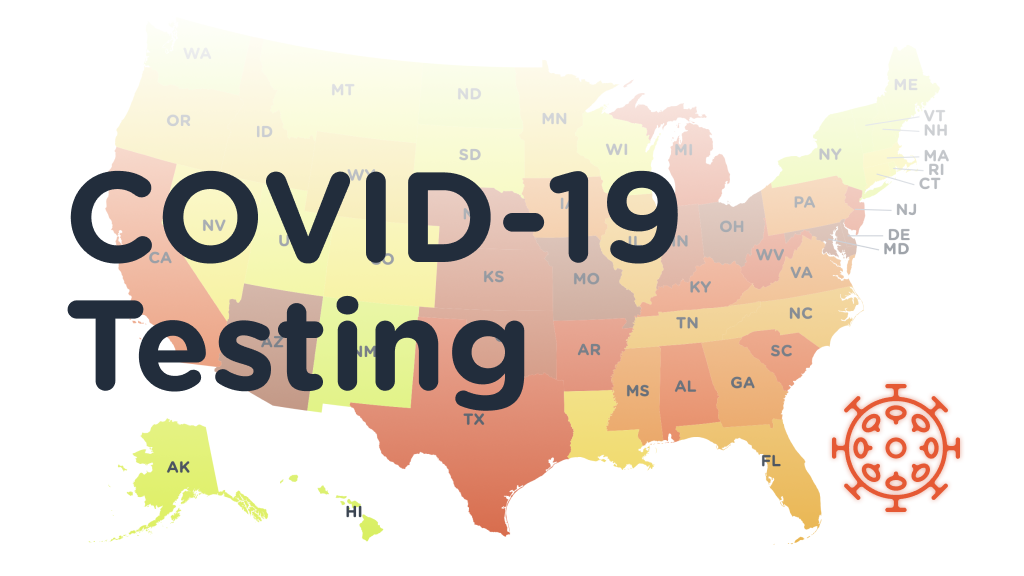
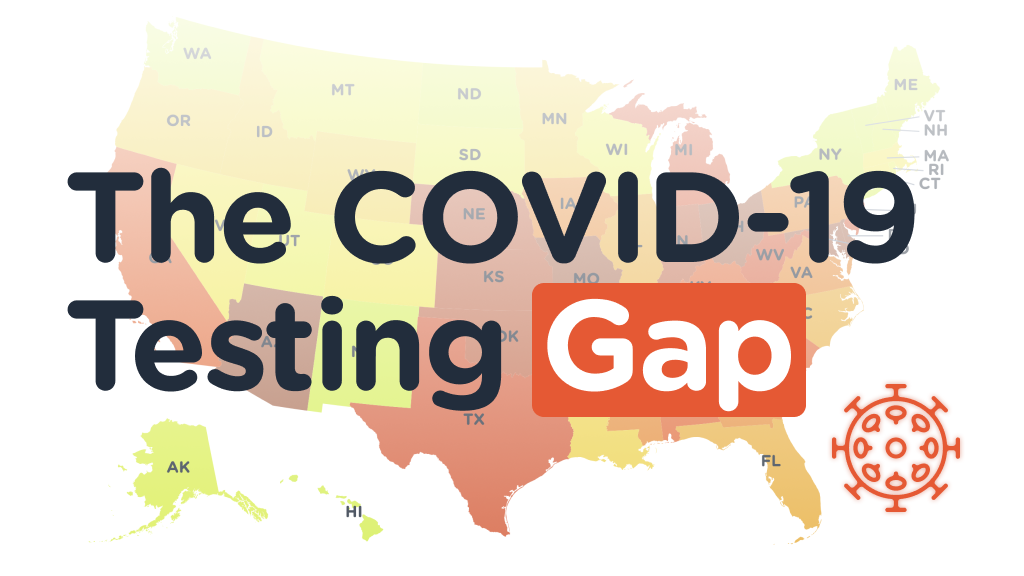
Switch to Testing Gap branding

Changed region(s): [[0.0625, 0.2812, 0.9062, 0.75]]

diff --git a/pages/index.js b/pages/index.js
@@ -10,7 +10,7 @@ import Readings from '../components/readings'
 import {
   Badge,
   Box,
-  Button,
+  Card,
   Container,
   Flex,
   Grid,
@@ -61,14 +61,11 @@ const Legend = ({ colorRange, total }) => (
   </Flex>
 )
 
+const testPop = today => round((today.total / 327200000) * 100, 3)
 const Stats = ({ today }) => (
   <Grid columns={[2, 3]} sx={{ mb: [3, null, 4] }}>
     <Stat value={commaNumber(today.total)} label="Total U.S. tests" />
-    <Stat
-      value={round((today.total / 327200000) * 100, 3)}
-      unit="%"
-      label="Tests / U.S. population"
-    />
+    <Stat value={testPop(today)} unit="%" label="Tests / U.S. population" />
     <Stat
       value={round((today.positive / today.total) * 100, 1)}
       unit="%"
@@ -89,19 +86,72 @@ export default ({ data = [], states = [], today = {} }) => {
   return (
     <>
       <Meta />
-      <Header title="U.S. COVID-19 Testing">
+      <Header
+        title={
+          <>
+            The U.S. COVID-19{' '}
+            <Badge
+              as="strong"
+              sx={{
+                fontSize: 'inherit',
+                borderRadius: 'default',
+                bg: 'primary',
+                px: 2,
+                py: 1
+              }}
+            >
+              Testing Gap
+            </Badge>
+          </>
+        }
+      >
         <Text sx={{ color: 'text', fontSize: [1, 2], my: [2, 3] }}>
-          There’s a{' '}
-          <Badge
-            as="strong"
-            sx={{ fontSize: 'inherit', fontFamily: 'heading', bg: 'primary' }}
-          >
-            critical shortage of testing
-          </Badge>{' '}
-          across the country, so we can’t know how many cases states have. This
-          site shows the number of tests each state has performed relative to
-          their population.
+          Critical lack of access to COVID-19 testing across the country
+          prevents us from knowing exactly how many people are infected. This
+          isn’t news.
         </Text>
+        <Text sx={{ color: 'text', fontSize: [1, 2], my: [2, 3] }}>
+          But depending on your state, you have very different access to
+          testing. This site shows each state’s testing relative to their
+          population.
+        </Text>
+        <details>
+          <Text as="summary" sx={{ fontFamily: 'heading' }}>
+            Top takeaways
+          </Text>
+          <Card
+            as="ol"
+            variant="sunken"
+            sx={{
+              color: 'text',
+              fontSize: [1],
+              my: [2, 3],
+              py: [2, 3],
+              pl: [4, 4],
+              mx: [-2, -3, -4],
+              li: { maxWidth: 'copy' },
+              'li + li': { mt: [1, 2] }
+            }}
+          >
+            <Text as="li">
+              Poorer states lack testing: nearly all Southern & Midwestern
+              states have done &lt;75&nbsp;tests per 100K people, while
+              Northeastern states range 120-400 tests per 100K.
+            </Text>
+            <Text as="li">
+              Washington (443/100K) & New York (398/100K) have the most testing
+              per capita, Ohio has the least (4/100K).
+            </Text>
+            <Text as="li">
+              85% of tests in New Jersey return positive, vs 0.03% in West
+              Virginia. This may be due to different requirements for testing.
+            </Text>
+            <Text as="li">
+              No states have nearly enough testing yet—&lt;{testPop(today)}% of
+              Americans have been tested once.
+            </Text>
+          </Card>
+        </details>
         <Text sx={{ color: 'secondary', mt: 3 }}>
           All data from{' '}
           <Link href="https://covidtracking.com/">

diff --git a/components/meta.js b/components/meta.js
@@ -1,8 +1,8 @@
 import Head from 'next/head'
 
 export default ({
-  title = 'COVID-19 Testing in the U.S.',
-  description = 'Understand the critical shortage of COVID-19 testing across the country with an interactive, state-by-state data visualization. Updated daily.',
+  title = 'The COVID-19 Testing Gap in the U.S.',
+  description = 'Understand the critical shortage of COVID-19 testing across the country & the disparity of access between states with an interactive, state-by-state data visualization. Updated daily.',
   image = 'https://testing.predictcovid.com/card.png',
   url = 'https://testing.predictcovid.com/'
 }) => (

diff --git a/components/nav.js b/components/nav.js
@@ -113,12 +113,9 @@ export default ({ material = false }) => {
           <BackButton text="All States" />
         ) : (
           <Link href="/" passHref>
-            <Text
-              as="a"
-              sx={{ color: 'red', flex: '1 1 auto', fontFamily: 'heading' }}
-            >
-              COVID-19 Testing
-            </Text>
+            <NavLink as="a" sx={{ ...linkEffect, px: 2, py: 1, ml: -2 }}>
+              Testing Gap
+            </NavLink>
           </Link>
         )}
         <NavLink

diff --git a/lib/theme.js b/lib/theme.js
@@ -29,7 +29,8 @@ theme.buttons.primary = {
 }
 theme.text.headline.color = 'primary'
 theme.text.headline.mt = 4
-theme.text.title.fontSize = [4, 5]
+theme.letterSpacings.headline = '-.02em'
+theme.text.title.letterSpacing = 'headline'
 theme.text.subtitle.fontSize = 2
 theme.text.subtitle = {
   ...theme.text.subtitle,

diff --git a/components/header.js b/components/header.js
@@ -44,7 +44,7 @@ export default ({
         <Heading
           as="h1"
           variant="title"
-          sx={{ color: 'primary' }}
+          sx={{ color: 'primary', fontSize: bgImg ? [4, 5, 6] : [3, 4] }}
           children={title}
         />
         {desc && (
